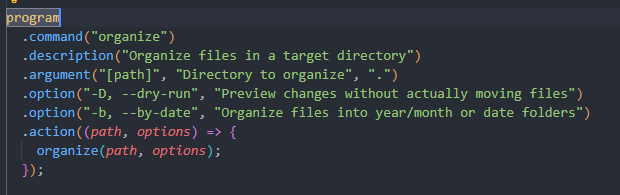
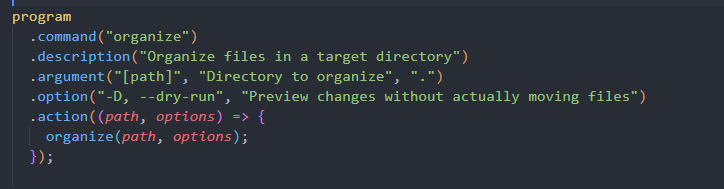
the --dry-run option on organizer command is working now

Changed region(s): [[0.0, 0.0, 0.95, 0.9259]]

diff --git a/src/commands/organize.ts b/src/commands/organize.ts
@@ -5,6 +5,7 @@ import { mkdir, rename } from "fs/promises";
 import chalk from "chalk";
 import ora from "ora";
 import inquirer from "inquirer";
+import treeify from "treeify";
 
 interface FileTypes {
   [category: string]: string[];
@@ -19,25 +20,57 @@ const getCategory = (ext: string): string => {
   return "others";
 };
 
+const dryRun = async (
+  files: { name: string; path: string; ext: string }[],
+  resolvedPath: string,
+) => {
+  const rootFolder = path.basename(resolvedPath);
+  // console.log(files);
+  // console.log("resultant folder structure: \n\n\n");
+  const folderStructure: Record<string, any> = {
+    [chalk.blue.bold(rootFolder)]: {},
+  };
+  files.forEach((file) => {
+    const category = getCategory(file.ext);
+    const rootKey = Object.keys(folderStructure)[0];
+
+    if (!folderStructure[rootKey][chalk.magenta(category)]) {
+      folderStructure[rootKey][chalk.magenta(category)] = {};
+    }
+    folderStructure[rootKey][chalk.magenta(category)][file.name] = "";
+  });
+
+  console.log(treeify.asTree(folderStructure, false, false));
+};
+
 const organize = async (targetDir: string, options: any) => {
   const resolvedPath = path.resolve(process.cwd(), targetDir);
-  // confirm from the user before organizing files into different categories
-  const { proceed } = await inquirer.prompt([
-    { type: "confirm", name: "proceed", message: `Are you sure you want to organize all the files in "${chalk.cyan.bold(resolvedPath)}"` },
-  ]);
-  if (!proceed) {
-    console.log("Cancelled organizing files");
-    return;
-  }
 
-  console.log(chalk.cyan.bold("Organizing: ", resolvedPath));
   //   console.log(options);
-  //   fileTypes;
   const files = await listFiles(resolvedPath);
   if (files.length === 0) {
     console.log("No files found to organize.");
     return;
   }
+
+  if (options.dryRun) {
+    dryRun(files, resolvedPath);
+    return;
+  }
+
+  // confirm from the user before organizing files into different categories
+  const { proceed } = await inquirer.prompt([
+    {
+      type: "confirm",
+      name: "proceed",
+      message: `Are you sure you want to organize all the files in "${chalk.cyan.bold(resolvedPath)}"`,
+    },
+  ]);
+  if (!proceed) {
+    console.log("Cancelled organizing files");
+    return;
+  }
+  console.log(chalk.cyan.bold("Organizing: ", resolvedPath));
 
   const spinner = ora({
     text: "Organizing files...",

diff --git a/src/index.ts b/src/index.ts
@@ -2,12 +2,11 @@
 
 import { program } from "commander";
 import organize from "./commands/organize.js";
-import testSpinner from "./commands/organize.js";
 
 program
   .name("clutter-cutter")
   .description("A CLI tool to organize your directories")
-  .version("0.1.1");
+  .version("0.2.0");
 
 program
   .command("just-testing")
@@ -18,7 +17,6 @@ program
   .description("Organize files in a target directory")
   .argument("[path]", "Directory to organize", ".")
   .option("-D, --dry-run", "Preview changes without actually moving files")
-  .option("-b, --by-date", "Organize files into year/month or date folders")
   .action((path, options) => {
     organize(path, options);
   });

diff --git a/README.md b/README.md
@@ -8,3 +8,4 @@ A CLI tool to organize your directories.
 - `commander` for parsing commands entered by user in terminal.
 - `chalk` for coloring terminal outputs.
 - `ora` for adding beautiful spinners/loaders during operations.
+- `treeify` for displaying folder structure as a tree.

diff --git a/brainstorm.md b/brainstorm.md
@@ -8,3 +8,4 @@ options:
 
 for undoing
 clutter-cutter --undo | clutter-cutter -u
+
